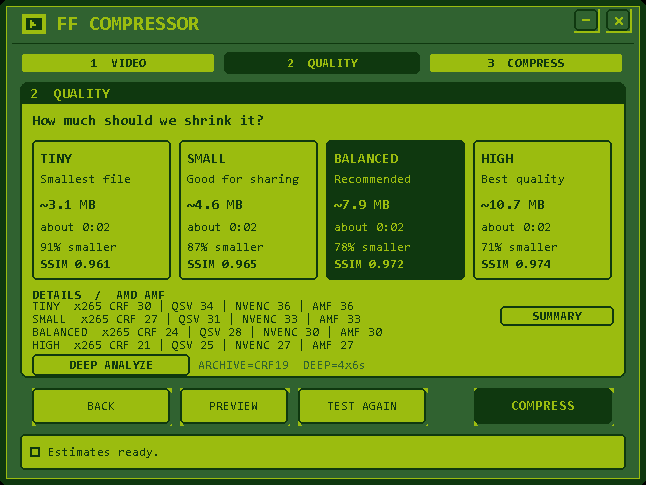
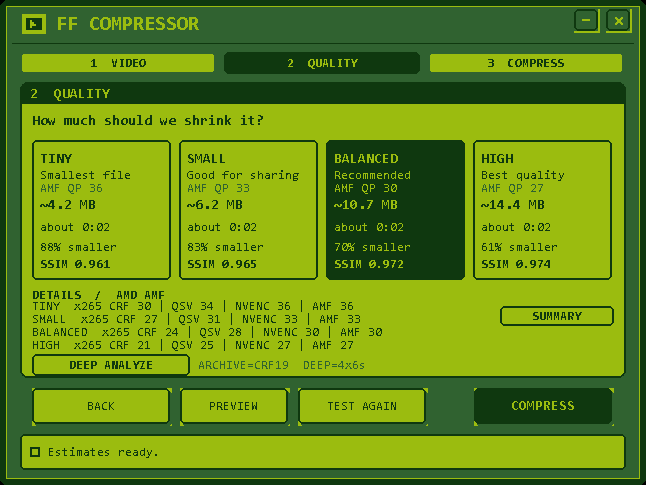
fix: dropdown text corruption and conservative quality estimates

diff --git a/src/ui.c b/src/ui.c
@@ -1205,6 +1205,20 @@ static void draw_chip(HDC hdc, const RECT *rc, const wchar_t *label)
             DT_CENTER | DT_VCENTER | DT_SINGLELINE | DT_NOPREFIX);
 }
 
+static void preset_quality_hint(int encoder, int level, wchar_t *out, size_t cap)
+{
+    int q = presets_quality_value(encoder, level, PRESETS_VIDEO_HEVC);
+    if (!out || cap == 0) return;
+    switch (encoder) {
+        case HW_ENC_NVENC: _snwprintf(out, cap, L"NVENC CQ %d", q); break;
+        case HW_ENC_QSV:   _snwprintf(out, cap, L"QSV gq %d", q); break;
+        case HW_ENC_AMF:   _snwprintf(out, cap, L"AMF QP %d", q); break;
+        case HW_ENC_X265:
+        default:           _snwprintf(out, cap, L"x265 CRF %d", q); break;
+    }
+    out[cap - 1] = L'\0';
+}
+
 static void draw_quality(HDC hdc)
 {
     wchar_t buf[512];
@@ -1214,6 +1228,8 @@ static void draw_quality(HDC hdc)
     int levels[ESTIMATE_MAX_LEVELS];
     int count;
     int i;
+    int enc = g_quality_has_result ? g_est.encoder
+                                   : estimate_choose_encoder(&g_info, &g_hw_info);
     int x = S(32), y = S(140), gap = S(8), card_h = S(140);
     int card_w;
 
@@ -1254,8 +1270,15 @@ static void draw_quality(HDC hdc)
                     DT_LEFT | DT_VCENTER | DT_SINGLELINE | DT_NOPREFIX);
         }
         {
-            RECT nr = { r.left + S(8), r.top + S(30), r.right - S(8), r.top + S(48) };
+            RECT nr = { r.left + S(8), r.top + S(28), r.right - S(8), r.top + S(42) };
             gb_text(hdc, g_fontSmall, ink, &nr, presets_level_note(level),
+                    DT_LEFT | DT_VCENTER | DT_SINGLELINE | DT_END_ELLIPSIS | DT_NOPREFIX);
+        }
+        {
+            wchar_t hint[64];
+            RECT qr = { r.left + S(8), r.top + S(42), r.right - S(8), r.top + S(54) };
+            preset_quality_hint(enc, level, hint, 64);
+            gb_text(hdc, g_fontSmall, selected ? ink : GB_DARK, &qr, hint,
                     DT_LEFT | DT_VCENTER | DT_SINGLELINE | DT_END_ELLIPSIS | DT_NOPREFIX);
         }
 
@@ -1317,8 +1340,6 @@ static void draw_quality(HDC hdc)
     /* Selected summary, preset details and notes. */
     {
         EstimateLevel *sel = quality_level_result(g_quality_selected);
-        int enc = g_quality_has_result ? g_est.encoder
-                                       : estimate_choose_encoder(&g_info, &g_hw_info);
         double src_video_bps = g_info.video_bitrate > 0
             ? (double)g_info.video_bitrate : (double)g_info.format_bitrate;
         double src_video_bytes = src_video_bps * g_info.duration / 8.0;
@@ -2828,6 +2849,10 @@ static void quality_ui_update_selection(void)
 typedef struct {
     HWND hwnd;
     int gen;
+    SourceInfo src;
+    HwInfo hw;
+    int profile;
+    int deep;
 } EstimateJob;
 
 static void quality_progress_cb(const EstimateProgress *p, void *user)
@@ -2854,9 +2879,8 @@ static DWORD WINAPI quality_thread_proc(LPVOID param)
         return 0;
     }
     msg->gen = job->gen;
-    result = estimate_run(&g_info, &g_hw_info, quality_current_profile(),
-                          g_quality_deep, &msg->est,
-                          quality_progress_cb, job, &g_est_cancel);
+    result = estimate_run(&job->src, &job->hw, job->profile, job->deep,
+                          &msg->est, quality_progress_cb, job, &g_est_cancel);
     msg->result = result;
     if (!PostMessageW(job->hwnd, WM_APP_EST_DONE, 0, (LPARAM)msg)) free(msg);
     free(job);
@@ -2907,6 +2931,10 @@ static void quality_ui_start(HWND hWnd, int force)
     }
     job->hwnd = hWnd;
     job->gen = g_quality_gen;
+    job->src = g_info;
+    job->hw = g_hw_info;
+    job->profile = quality_current_profile();
+    job->deep = g_quality_deep;
     thread = CreateThread(NULL, 0, quality_thread_proc, job, 0, NULL);
     if (thread) {
         CloseHandle(thread);
@@ -3680,6 +3708,7 @@ typedef struct {
     int quality;
     int clips;
     double clip_seconds;
+    SourceInfo src;
 } CustomEstJob;
 
 static DWORD WINAPI custom_est_thread_proc(LPVOID param)
@@ -3689,7 +3718,7 @@ static DWORD WINAPI custom_est_thread_proc(LPVOID param)
     msg = (CustomEstDoneMsg*)calloc(1, sizeof(CustomEstDoneMsg));
     if (!msg) { free(job); return 0; }
     msg->gen = job->gen;
-    msg->result = estimate_run_custom(&g_info, &g_hw_info, job->encoder,
+    msg->result = estimate_run_custom(&job->src, NULL, job->encoder,
                                       job->video_codec, job->quality,
                                       job->video_track, job->clips,
                                       job->clip_seconds, &msg->est,
@@ -3735,6 +3764,7 @@ static void encode_ui_start_custom_test(HWND hWnd)
     job->video_codec = g_enc_opt.video_codec;
     job->video_track = encode_selected_video_track(&g_info, &g_enc_opt);
     job->quality = quality;
+    job->src = g_info;
     job->clips = 4;
     job->clip_seconds = 4.0;
     thread = CreateThread(NULL, 0, custom_est_thread_proc, job, 0, NULL);

diff --git a/src/estimate.c b/src/estimate.c
@@ -133,6 +133,16 @@ int estimate_plan(const SourceInfo *src, int profile,
         clip_count = 3;
         clip_len = 4.0;
     }
+    /* Long films have far more scene variety than a 12s sample can show.
+       Increase the sample budget automatically instead of relying on the user
+       to press DEEP ANALYZE. */
+    if (profile != HW_PROFILE_LIGHT && src->duration > 1800.0) {
+        if (clip_count < 4) clip_count = 4;
+        if (clip_len < 5.0) clip_len = 5.0;
+    }
+    if (profile != HW_PROFILE_LIGHT && src->duration > 5400.0) {
+        clip_len = 6.0;
+    }
     count = presets_available_levels(profile, levels);
 
     if (src->duration <= 0.0) {
@@ -583,6 +593,18 @@ EstimateResult estimate_run(const SourceInfo *src, const HwInfo *hw,
                     video_bps = (mean_bps + max_bps) / 2.0;
                 }
             }
+            /* Hardware quality scales are less predictable than x265 CRF.
+               High-bpp remuxes (grain, old masters) tend to need more bits
+               than a short sample suggests, so add a conservative factor. */
+            if (encoder != HW_ENC_X265) {
+                double bpp = src->bits_per_pixel;
+                double factor = 1.0;
+                if (bpp > 0.50) factor = 1.50;
+                else if (bpp > 0.35) factor = 1.35;
+                else if (bpp > 0.22) factor = 1.20;
+                else if (bpp > 0.12) factor = 1.10;
+                video_bps *= factor;
+            }
 
             if (src->audio_track_count > 0) {
                 long long total = encode_audio_total_bitrate(src);
@@ -752,6 +774,15 @@ EstimateResult estimate_run_custom(const SourceInfo *src, const HwInfo *hw,
             if (max_bps > mean_bps * 1.15) {
                 video_bps = (mean_bps + max_bps) / 2.0;
             }
+        }
+        if (encoder != HW_ENC_X265 && video_codec != PRESETS_VIDEO_H264) {
+            double bpp = src->bits_per_pixel;
+            double factor = 1.0;
+            if (bpp > 0.50) factor = 1.50;
+            else if (bpp > 0.35) factor = 1.35;
+            else if (bpp > 0.22) factor = 1.20;
+            else if (bpp > 0.12) factor = 1.10;
+            video_bps *= factor;
         }
 
         size = video_bps * src->duration / 8.0 * 1.01;

diff --git a/src/gb_ui.c b/src/gb_ui.c
@@ -525,11 +525,12 @@ void gb_draw_control(const DRAWITEMSTRUCT *dis, HFONT font, int role,
 /* ---------------------------------------------------------------- popup */
 
 #define GB_DROP_CLASS L"GbDropPopupWnd"
+#define GB_DROP_MAX_ITEMS 80
 
 typedef struct {
     HWND hwnd;
     HWND owner;
-    const wchar_t *const *items;
+    const wchar_t *items[GB_DROP_MAX_ITEMS];
     int count;
     int selected;
     int hover;
@@ -705,6 +706,7 @@ int gb_dropdown_open(HWND owner, const RECT *anchor,
     int text_px;
 
     if (!owner || !anchor || !items || count <= 0) return 0;
+    if (count > GB_DROP_MAX_ITEMS) count = GB_DROP_MAX_ITEMS;
 
     gb_dropdown_close();
 
@@ -723,7 +725,7 @@ int gb_dropdown_open(HWND owner, const RECT *anchor,
 
     memset(&g_drop, 0, sizeof(g_drop));
     g_drop.owner = owner;
-    g_drop.items = items;
+    for (i = 0; i < count; i++) g_drop.items[i] = items[i];
     g_drop.count = count;
     g_drop.selected = selected >= 0 && selected < count ? selected : 0;
     g_drop.hover = g_drop.selected;

diff --git a/docs/screenshots/README.md b/docs/screenshots/README.md
@@ -69,5 +69,6 @@ The test screens are transient; the cards are the normal quality-step state.
   absolute stream indices.
 
 The tutorial images `02-quality.png` and `04-settings.png` were refreshed for
-the same build. They show video-only source→target estimates on the quality
-screen and the video/audio/total breakdown on the compress screen.
+the same build. The quality cards now show the active encoder's CRF/CQ/gq/QP
+value under every preset. They also show video-only source→target estimates;
+the compress screen adds the selected audio and the total.
